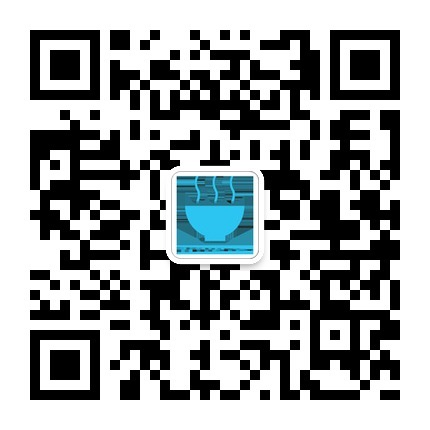
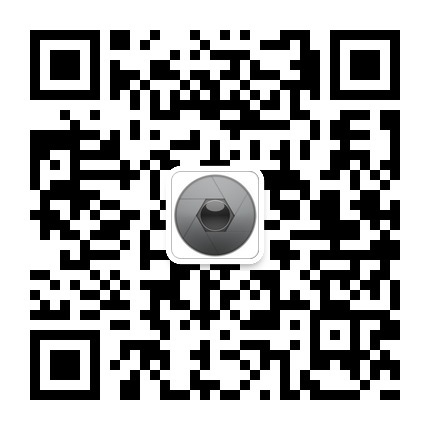
更新部分描述
1)weixin.jpg添加回复提示
2)index.php添加功能显示最新的图片
3）更改微信的logo图片为光圈

Changed region(s): [[0.393, 0.393, 0.6047, 0.6047]]

diff --git a/pper/index.php b/pper/index.php
@@ -7,7 +7,7 @@ http-equiv="X-UA-Compatible">
 		 
 <META charset="utf-8">		 
 <META name="viewport" content="width=device-width, user-scalable=no, minimum-scale=1.0, maximum-scale=1.0">
-<TITLE>快拍客</TITLE>		 
+<TITLE>拍拍客</TITLE>		 
 <STYLE>
 			html, body {
 				height: 100%;
@@ -114,7 +114,7 @@ http-equiv="X-UA-Compatible">
 	$i = 0;
 	$files = array();
 	//$file
-	while (false !== ($file = readdir($dh)) && $i < 108) { //遍历该php文件所在目录
+	while (false !== ($file = readdir($dh)) ){//&& $i < 108) { //遍历该php文件所在目录
 		list($filesname,$kzm)=explode(".",$file);//获取扩展名
 		if($kzm=="gif" or $kzm=="jpg" or $kzm=="JPG" or $kzm=="png" or $kzm=="PNG") { //文件过滤
 		  if (!is_dir("./".$file)) { //文件夹过滤
@@ -154,11 +154,11 @@ http-equiv="X-UA-Compatible">
 		 
 <DIV id="container"></DIV>
 <DIV id="info">
-	我们不是摄影师，我们也不懂美工，我们只是喜欢随手拍拍而已。我们是————<font size="5" color="red">快拍客！</font>
+	随手拍的照片很多，大多数照片没什么特殊意义，也很少记得住。但是，偶尔也会想看看我拍的那些东西。我是一个——————<font size="5" color="red">拍拍客！</font>
 </DIV>
 <div>
 	<img src='img/weixin.jpg' width = '110px',height = '110px'></br>
-	<A href="http://www.kper.com.cn" target="_blank"><h1>快拍客</h1></A>
+	<A href="http://www.kper.com.cn" target="_blank"><h1>拍拍客</h1></A>
 	<font size="1" color="red">微信添加公共账号，发送图片</br>刷新！你的照片上墙了</font>
 
 </div>
@@ -170,7 +170,7 @@ http-equiv="X-UA-Compatible">
 	<BUTTON id="grid">矩阵墙</BUTTON>
 			 
 <SCRIPT>
-			//单页墙w18*h9
+			//建议值[9,9]
 			var table = [];
 			
 			var camera, scene, renderer;
@@ -191,7 +191,7 @@ http-equiv="X-UA-Compatible">
 				scene = new THREE.Scene();
 				
 				
-				for ( var i = 0; i < table.length; i ++ ) {
+				for ( var i = 0; i < table.length && i< 108; i ++ ) {
 
 					var element = document.createElement( 'div' );
 					element.className = 'element';
@@ -229,7 +229,7 @@ http-equiv="X-UA-Compatible">
 
 				}
 
-				// sphere 球形墙
+				// sphere
 
 				var vector = new THREE.Vector3();
 
@@ -252,7 +252,7 @@ http-equiv="X-UA-Compatible">
 
 				}
 
-				// helix 螺旋墙
+				// helix
 
 				var vector = new THREE.Vector3();
 
@@ -276,7 +276,7 @@ http-equiv="X-UA-Compatible">
 
 				}
 
-				// grid 矩阵墙
+				// grid
 
 				for ( var i = 0; i < objects.length; i ++ ) {
 
@@ -384,7 +384,6 @@ http-equiv="X-UA-Compatible">
 
 				TWEEN.update();
 				controls.update();
-
 
 			}
 

diff --git a/pper/weixin.php b/pper/weixin.php
@@ -53,6 +53,7 @@ class wechatCallbackapiTest
             $toUsername = $postObj->ToUserName;
 			$MsgType = $postObj->MsgType;
             $time = time();
+			$contentStr = "对不起，我们只能够处理图片。";
 			$textTpl = "<xml>
 						<ToUserName><![CDATA[%s]]></ToUserName>
 						<FromUserName><![CDATA[%s]]></FromUserName>
@@ -66,18 +67,15 @@ class wechatCallbackapiTest
 				$url = trim($postObj->PicUrl);
 				$filename = $fromUsername;
 				$this->getImg($url,$filename);  
-				$contentStr = "图片已经上墙\r请登录www.kper.com.cn找找你的图片在那块砖上。";
+				$contentStr = "图片已经上墙\r请登录www.pper.com.cn找找你的图片在那块砖上。";
 			}
 			else
 			{
 				
-				$contentStr = "对不起，我们只能够处理图片。";
-				//返回消息
-				$msgType = "text";
-				$resultStr = sprintf($textTpl, $fromUsername, $toUsername, $time, $msgType, $contentStr);
-
 			}
-
+			//回复消息
+			$msgType = "text";
+			$resultStr = sprintf($textTpl, $fromUsername, $toUsername, $time, $msgType, $contentStr);
 			echo $resultStr;
         }else {
         	echo "";
@@ -146,13 +144,13 @@ class wechatCallbackapiTest
 		//生成缩略图		
 		Return true;
 	}
-		/*等比例缩略图
+		/*-----------等比例缩略图----------------------------
 		*filename 图片名称
 		*srcDir 源图片所在的文件夹
 		*disDir 保存的文件夹
 		*distWidth 目标宽度
 		*distHeight 目标高度
-		*/
+		---------------------------------------------------*/
 	public function resizeImg($filename,$srcDir,$disDir,$distWidth,$distHeight)
 	{
 		// Content type
